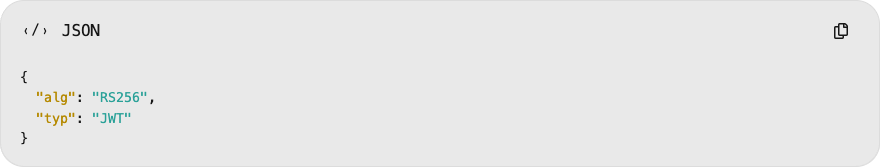
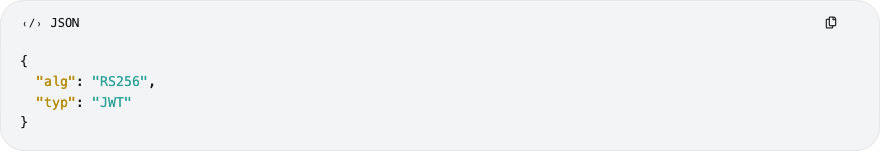
コードヘッダーを小型化しコピー表示の寸法を固定

diff --git a/src/features/code-blocks/rounded-panel.css b/src/features/code-blocks/rounded-panel.css
@@ -8,16 +8,17 @@
   width: 100%;
   min-width: 0;
   box-sizing: border-box;
-  gap: 12px;
-  padding: 12px 20px;
-  background: #e9e9e9;
+  gap: 8px;
+  padding: 8px 20px;
+  background: #f3f4f5;
   color: #171717;
-  border: 1px solid #dcdcdc;
+  border: 1px solid #e5e7e9;
   border-bottom: 0;
   border-radius: 24px 24px 0 0;
   box-shadow: none;
   font-family: inherit;
-  font-size: 16px;
+  font-size: 12px;
+  line-height: 16px;
   font-weight: 500;
   letter-spacing: normal;
 }
@@ -40,7 +41,16 @@
 }
 
 .line > .text.code-block.start .code-block-start .tool-buttons {
-  flex: 0 0 auto;
+  /* Native Copy replaces the whole button with plain text "Copied". */
+  flex: 0 0 56px;
+  width: 56px;
+  height: 28px;
+  box-sizing: border-box;
+  align-items: center;
+  justify-content: center;
+  white-space: nowrap;
+  font-size: 11px;
+  line-height: 16px;
   margin-left: auto;
 }
 
@@ -48,25 +58,26 @@
   display: inline-flex;
   align-items: center;
   justify-content: center;
-  width: 36px;
-  height: 36px;
-  border-radius: 50%;
+  width: 100%;
+  height: 100%;
+  font-size: 12px;
+  border-radius: 14px;
   color: #171717 !important;
   opacity: 1;
 }
 
 .line > .text.code-block.start .code-block-start .tool-buttons .button:hover {
-  background: #dddddd;
+  background: #e6e8ea;
 }
 
 .line > .text.code-block:not(.start) > .indent {
-  background: #e9e9e9;
+  background: #f3f4f5;
   margin-right: calc(-1 * var(--code-indent-width)) !important;
   padding-left: 20px;
   padding-right: 20px;
   box-shadow:
-    inset 1px 0 #dcdcdc,
-    inset -1px 0 #dcdcdc !important;
+    inset 1px 0 #e5e7e9,
+    inset -1px 0 #e5e7e9 !important;
 }
 
 .line:has(> .text.code-block.start) + .line > .text.code-block:not(.start) > .indent {
@@ -78,14 +89,14 @@
   > .indent {
   padding-bottom: 18px !important;
   border-radius: 0 0 24px 24px !important;
-  border-bottom: 1px solid #dcdcdc !important;
+  border-bottom: 1px solid #e5e7e9 !important;
 }
 
 /* Empty blocks still get a complete rounded panel. */
 .line:has(> .text.code-block.start):not(:has(+ .line > .text.code-block:not(.start)))
   .code-block-start {
   border-radius: 24px;
-  border-bottom: 1px solid #dcdcdc;
+  border-bottom: 1px solid #e5e7e9;
 }
 
 .line > .text.code-block code.code-body {

diff --git a/docs/code-blocks.md b/docs/code-blocks.md
@@ -16,6 +16,22 @@
 
 ![画面幅390px](images/code-blocks-mobile.png)
 
+## ヘッダーの小型化とコピー完了表示
+
+ラベルとアイコンを12pxに、ヘッダーの上下余白を8pxに抑えています。背景も `#f3f4f5` の薄いグレーへ変更しました。標準コピーが「Copied」の文字列に変わっても、外側の操作領域を56×28pxに固定して、ヘッダーと本文の位置が動かないようにしています。
+
+小型化前：
+
+![ヘッダー小型化前](images/code-header-before.png)
+
+小型化後・コピー完了時：
+
+![小型化後のCopied表示](images/code-header-copied.png)
+
+2026年11月17日に同じ確認用DOMで撮影。通常表示とCopied表示のヘッダー・操作領域・本文の寸法と位置をChrome／WebKitの各画面幅で照合しています。実際のScrapboxのコピー操作でも、通常時とCopied時のヘッダー・操作領域の幅と高さが一致することを確認しました。
+
+再撮影：`node tools/code-blocks-check.mjs --header-baseline`（小型化前との比較）。関連：[Issue #10](https://github.com/kamekingdom/kame-layout/issues/10)。
+
 ## 撮影と検証
 
 2026年11月17日撮影。Scrapboxの標準DOMと同じ構造の確認用ページに、変更前後のCSSを適用した表示です。画像の本文はサンプルJSONであり、個人ページの本文は含みません。

diff --git a/src/features/code-blocks/README.md b/src/features/code-blocks/README.md
@@ -25,7 +25,7 @@ code: のコードブロックに適用します。
 
 ## 補足
 
-- 標準のファイル名・コピー操作・ハイライトを残して角丸パネルに整えます。折り返し切替ボタンは追加しません。
+- 標準のファイル名・コピー操作・ハイライトを残し、薄いグレーの角丸パネルに整えます。ヘッダーは小さくし、Copied表示でも操作領域のサイズを固定します。折り返し切替ボタンは追加しません。
 - [変更前後のスクリーンショット](../../../docs/code-blocks.md)を確認できます。
 
 ## 旧版・元の試作
